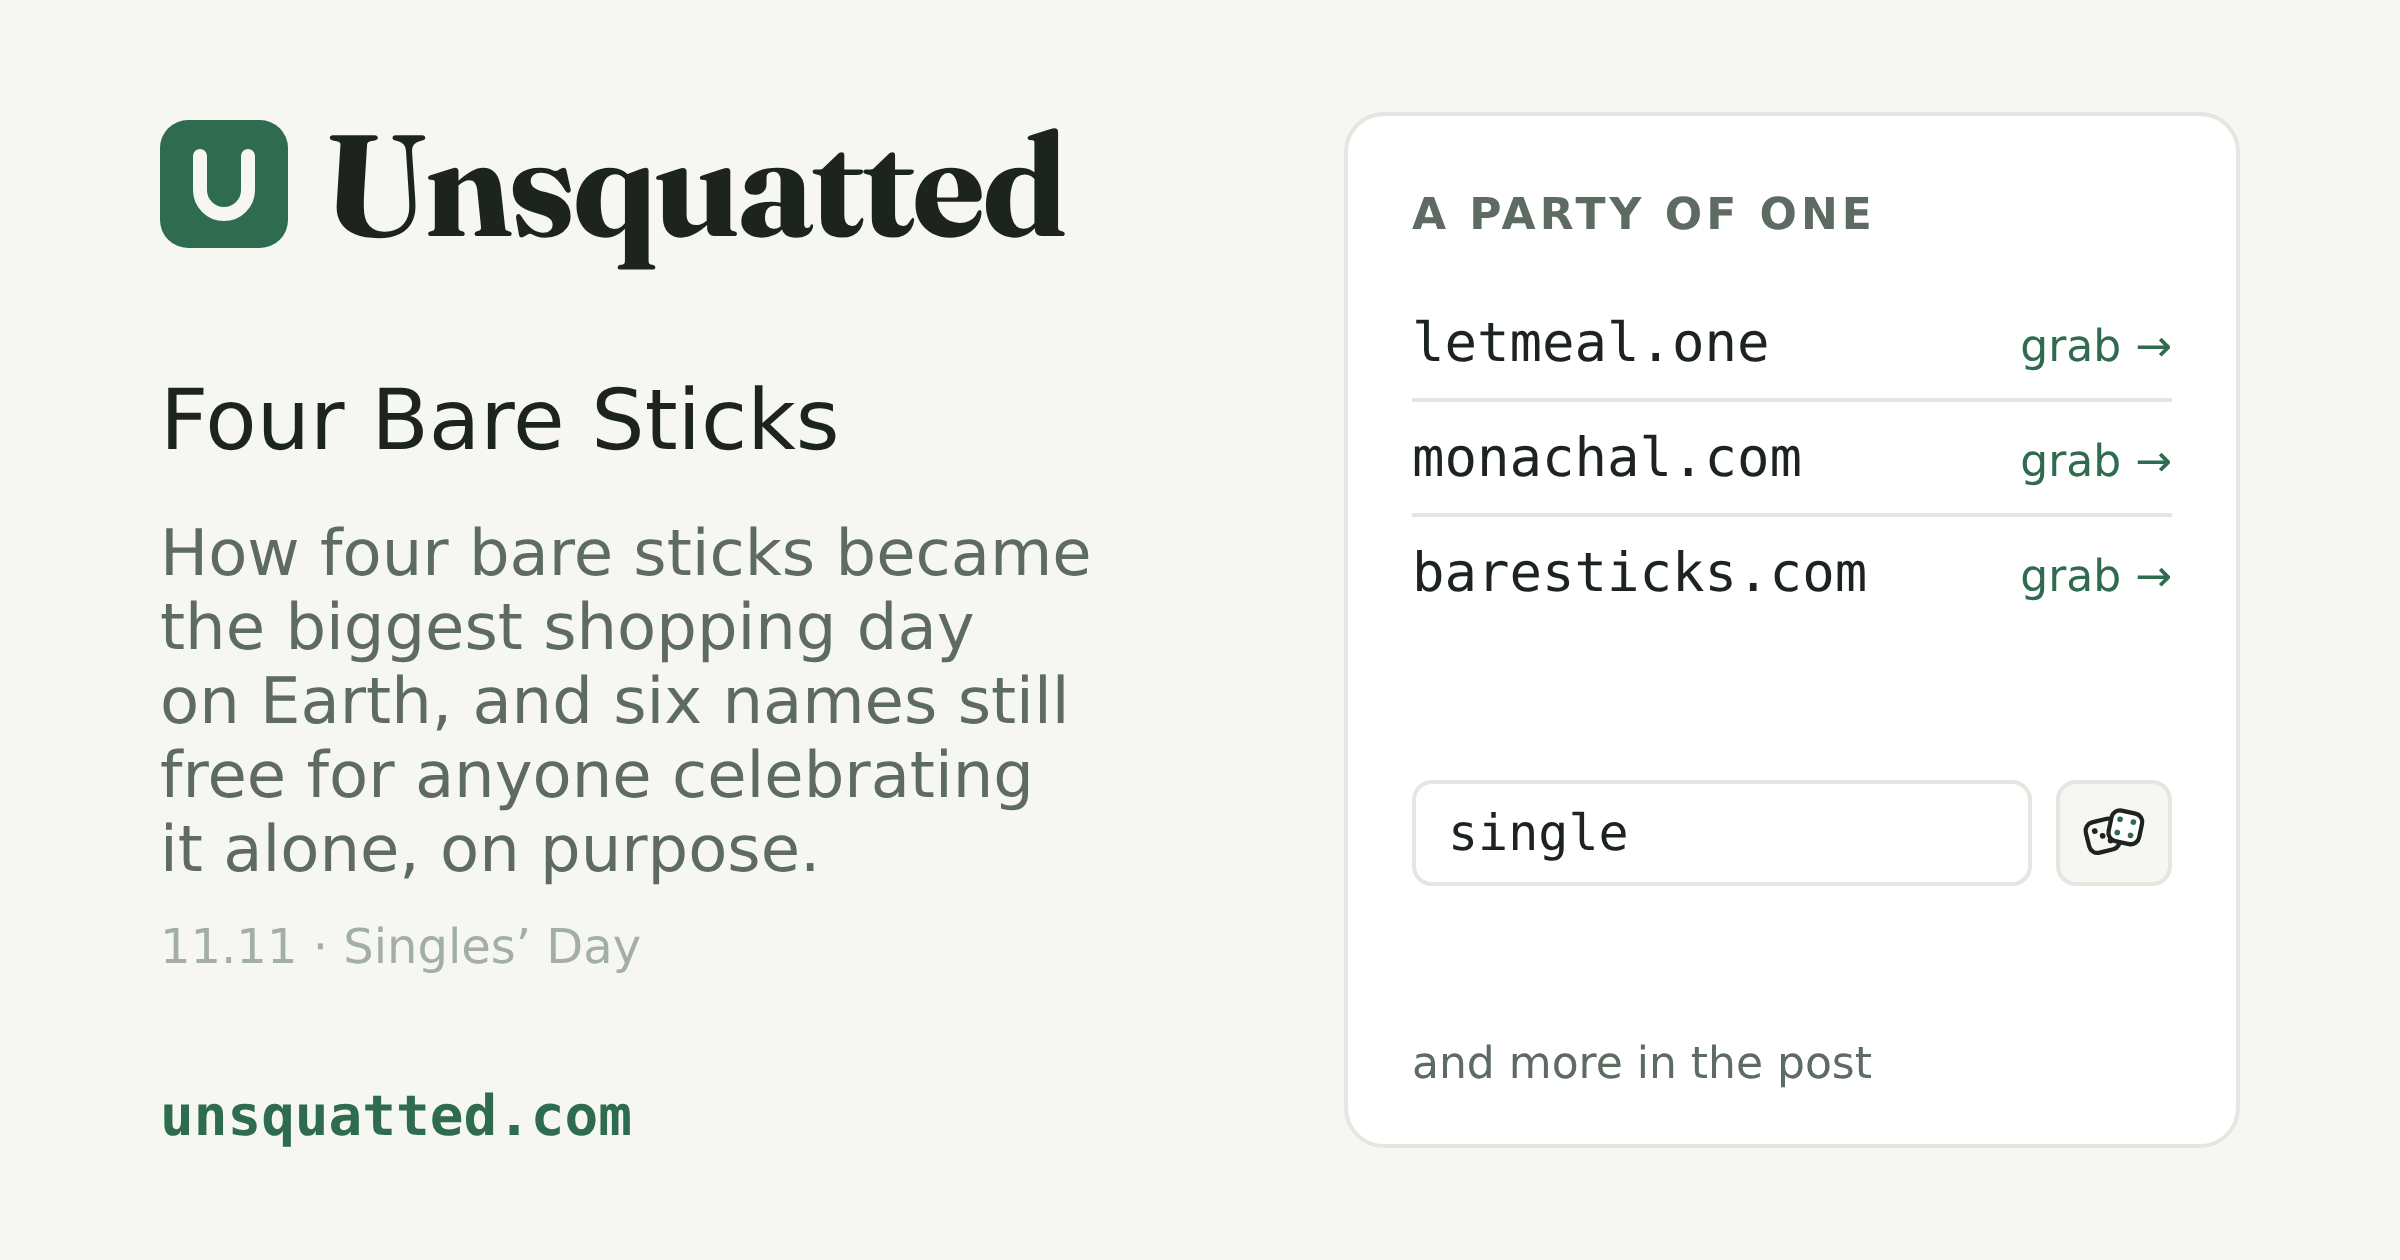
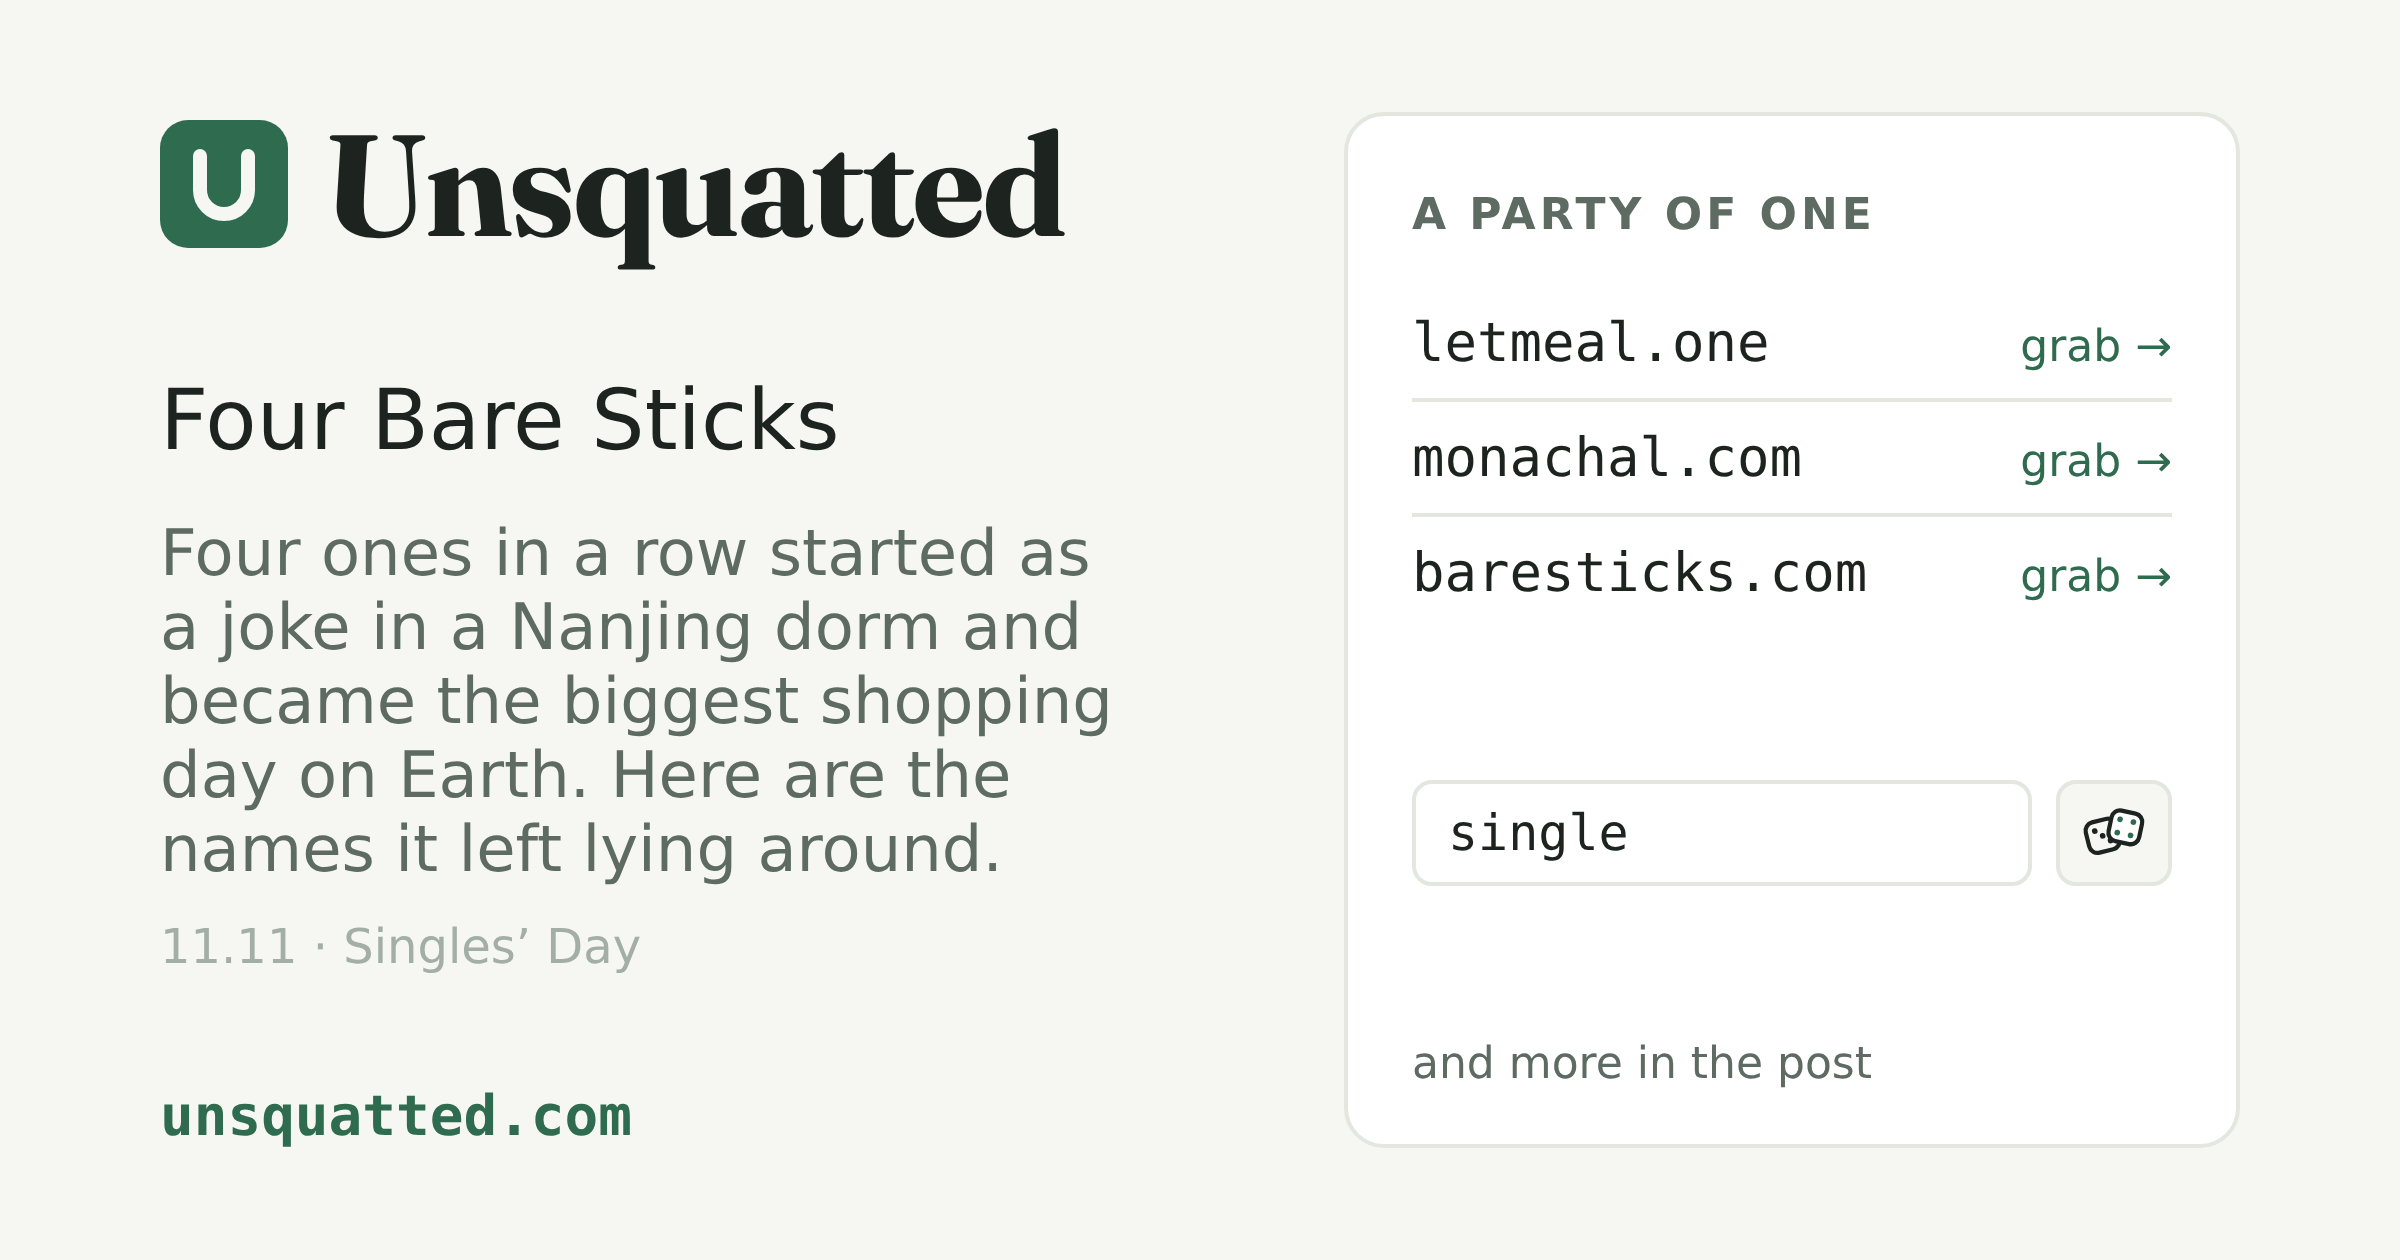
feat(unsquatted): a livelier lede for Singles' Day, and a labelled share in the widgets
The lede follows the mockup's: the dorm joke and the names it left lying
around. The widgets' share trigger is the icon and the word, as on the
mockups, through ShareMenu's labelled mode.

Claude-Session: https://claude.ai/code/session_01DaohkE55NLPZ6Shpfu2Rvp

Changed region(s): [[0.0625, 0.4024, 0.4688, 0.7119]]

diff --git a/src/unsquatted/widgets/field-tools/ui/field-tools.tsx b/src/unsquatted/widgets/field-tools/ui/field-tools.tsx
@@ -1,6 +1,6 @@
 'use client';
 
-import { ActionIcon, Loader, Menu } from '@mantine/core';
+import { ActionIcon, Loader, Menu, UnstyledButton } from '@mantine/core';
 import { ImageIcon, LinkIcon, Share2 } from 'lucide-react';
 import { useEffect, useRef, useState } from 'react';
 
@@ -55,10 +55,16 @@ type DrawCard = (() => Promise<File>) | undefined;
 
 /**
  * `typed` is the copied link's fragment: the name as the field holds it, or a
- * widget's anchor in a post. `size` is the button's, the field's by default.
+ * widget's anchor in a post. `size` is the icon button's, the field's by
+ * default; `labelled` trades that button for the icon and the word.
  */
 type ShareMenuProps = Sharing &
-  Typed & { drawCard: DrawCard; size?: number; className?: string };
+  Typed & {
+    drawCard: DrawCard;
+    size?: number;
+    className?: string;
+    labelled?: boolean;
+  };
 
 type LabelProps = { children: readonly string[]; showing: number };
 
@@ -117,6 +123,7 @@ export function ShareMenu({
   copy,
   size = 42,
   className = classes['tool'],
+  labelled = false,
 }: ShareMenuProps) {
   const [opened, setOpened] = useState(false);
   const [card, setCard] = useState<File>();
@@ -137,16 +144,27 @@ export function ShareMenu({
         shadow="md"
       >
         <Menu.Target>
-          <ActionIcon
-            variant="default"
-            {...{ size, className }}
-            aria-label={copy.share}
-            title={copy.share}
-            onPointerEnter={onReached}
-            onFocus={onReached}
-          >
-            <Share2 size={18} />
-          </ActionIcon>
+          {labelled ? (
+            <UnstyledButton
+              {...{ className }}
+              onPointerEnter={onReached}
+              onFocus={onReached}
+            >
+              <Share2 size={14} aria-hidden />
+              {copy.share}
+            </UnstyledButton>
+          ) : (
+            <ActionIcon
+              variant="default"
+              {...{ size, className }}
+              aria-label={copy.share}
+              title={copy.share}
+              onPointerEnter={onReached}
+              onFocus={onReached}
+            >
+              <Share2 size={18} />
+            </ActionIcon>
+          )}
         </Menu.Target>
         <Menu.Dropdown>
           <Menu.Item

diff --git a/src/unsquatted/pages/post/ui/widget-card.module.scss b/src/unsquatted/pages/post/ui/widget-card.module.scss
@@ -131,5 +131,17 @@
 }
 
 .share {
+  display: inline-flex;
+  gap: 6px;
+  align-items: center;
+  padding: 4px 8px;
+  border: 1px solid var(--color-border-hairline);
+  border-radius: 8px;
   color: var(--unsquatted-muted);
+  font-size: 0.875rem;
+  text-transform: lowercase;
+
+  &:hover {
+    color: var(--color-foreground);
+  }
 }

diff --git a/src/unsquatted/pages/post/ui/widget-card.tsx b/src/unsquatted/pages/post/ui/widget-card.tsx
@@ -90,7 +90,7 @@ function Card({
         </Link>
         <ShareMenu
           typed={anchor}
-          size={30}
+          labelled
           className={classes['share']}
           drawCard={
             shared === undefined

diff --git a/sites/unsquatted/public/blog/singles-day.md b/sites/unsquatted/public/blog/singles-day.md
@@ -1,7 +1,7 @@
 ---
 description: >-
-  How four bare sticks became the biggest shopping day on Earth, and six names
-  still free for anyone celebrating it alone, on purpose.
+  Four ones in a row started as a joke in a Nanjing dorm and became the biggest
+  shopping day on Earth. Here are the names it left lying around.
 date: 2026-11-09
 author: unnamed
 occasion:
